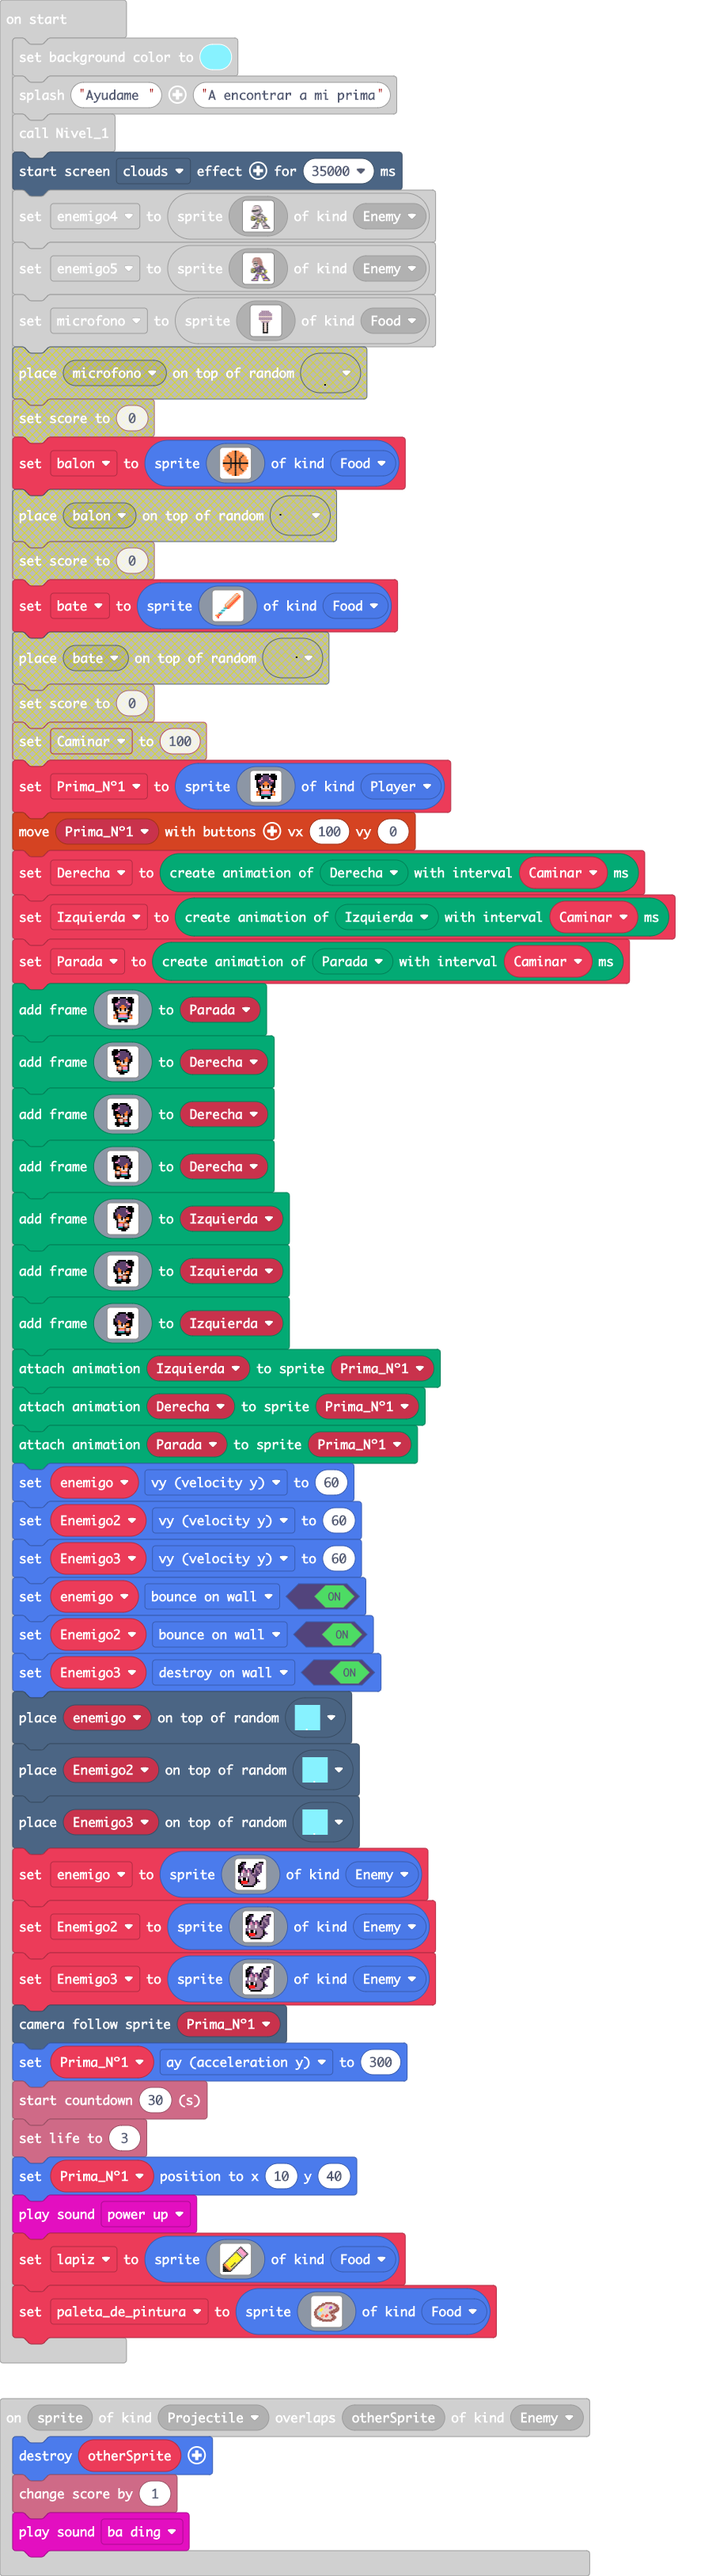
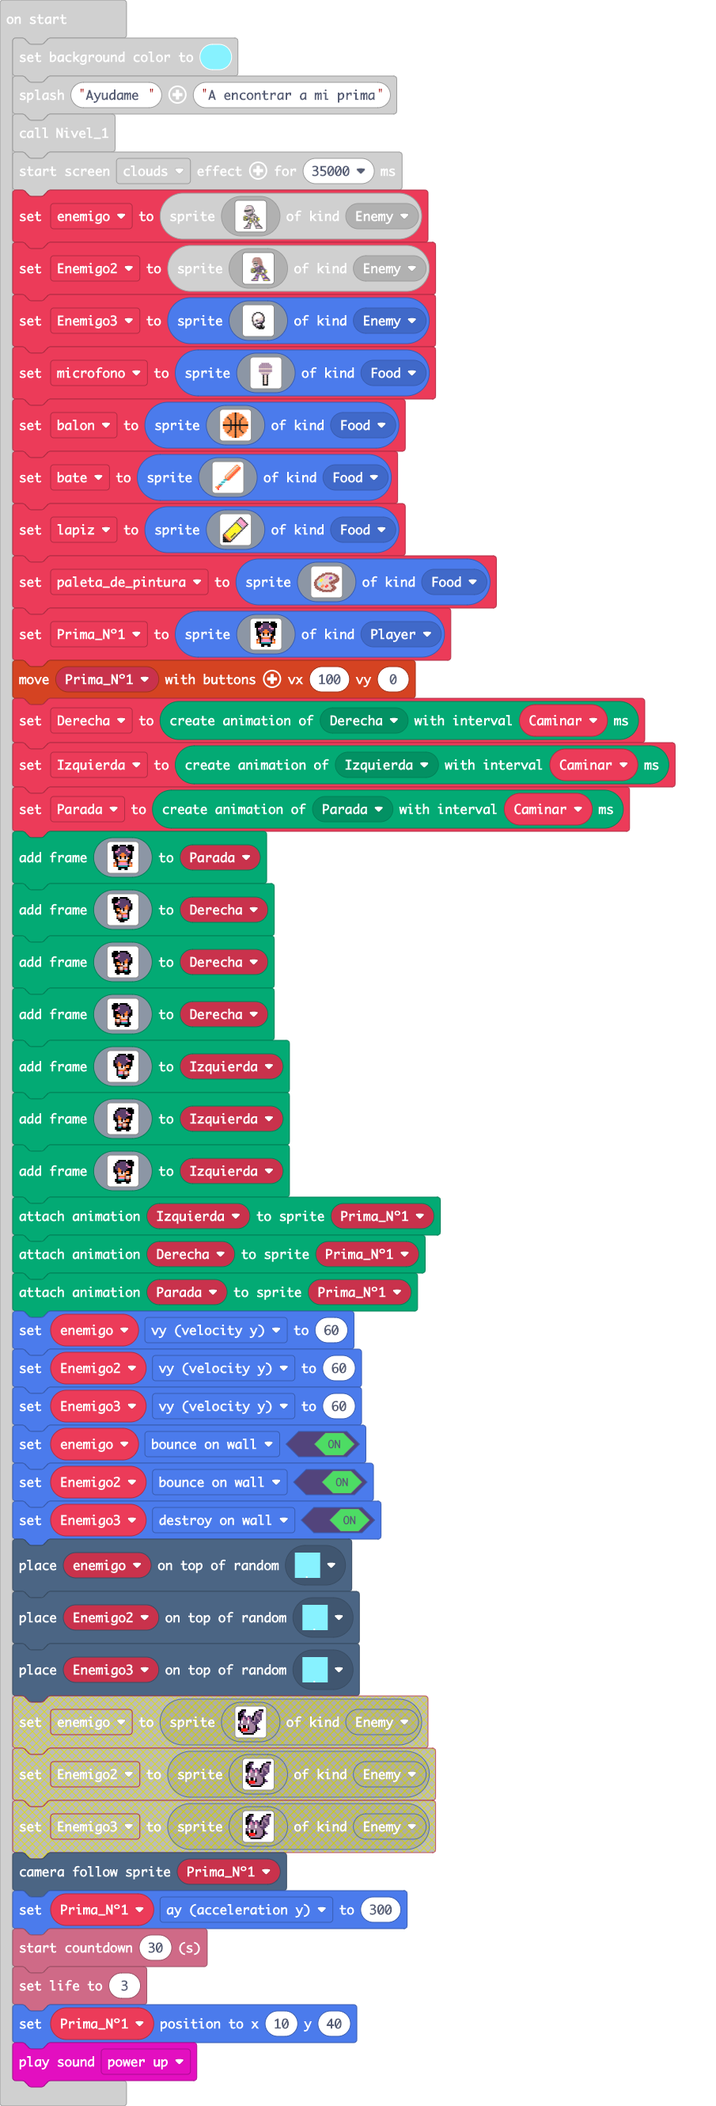
Update main.blocks, main.ts

diff --git a/main.ts b/main.ts
@@ -150,19 +150,19 @@ sprites.onOverlap(SpriteKind.Player, SpriteKind.Enemy, function (sprite, otherSp
 let Premio_1: Sprite = null
 let Projectil: Sprite = null
 let direccion = 0
-let Enemigo3: Sprite = null
-let Enemigo2: Sprite = null
-let enemigo: Sprite = null
 let Caminar = 0
 let Prima_Nº1: Sprite = null
 let bate: Sprite = null
 let balon: Sprite = null
 let microfono: Sprite = null
+let Enemigo3: Sprite = null
+let Enemigo2: Sprite = null
+let enemigo: Sprite = null
 scene.setBackgroundColor(9)
 game.splash("Ayudame ", "A encontrar a mi prima")
 Nivel_1()
 effects.clouds.startScreenEffect()
-let enemigo4 = sprites.create(img`
+enemigo = sprites.create(img`
     . . . . . . . . . . . . . . . . . . . . . . . . . . . . . . . . . . . . . . . . . . . . . . 
     . . . . . . . . . . . . . . . . . . . . . . . . . . . . . . . . . . . . . . . . . . . . . . 
     . . . . . . . . . . . . . . . . . . . . . . . . . . . . . . . . . . . . . . . . . . . . . . 
@@ -211,7 +211,7 @@ let enemigo4 = sprites.create(img`
     . . . . . . . . . . . f b b b b b b b b b f f . . . . . . . . . . f b d d d d d d d b b f . 
     . . . . . . . . . . . f f f f f f f f f f f f . . . . . . . . . . f f f f f f f f f f f f . 
     `, SpriteKind.Enemy)
-let enemigo5 = sprites.create(img`
+Enemigo2 = sprites.create(img`
     . . . . . . . . . . . . . . . . . . . . . . . . . . . . . . . . . . . . . . . . . . . . . . 
     . . . . . . . . . . . . . . . . . . . . . . . . . . . . . . . . . . . . . . . . . . . . . . 
     . . . . . . . . . . . . . . . . . . . . . . . . . . . . . . . . . . . . . . . . . . . . . . 
@@ -259,6 +259,32 @@ let enemigo5 = sprites.create(img`
     . . . . . . . . . . . f f a a 5 5 5 5 5 a a f . . . . . . . . . . f a a 5 5 5 5 5 a a f f . 
     . . . . . . . . . . . f a a a a a a a a a f f . . . . . . . . . . f a 5 5 5 5 5 5 5 a a f . 
     . . . . . . . . . . . f f f f f f f f f f f f . . . . . . . . . . f f f f f f f f f f f f . 
+    `, SpriteKind.Enemy)
+Enemigo3 = sprites.create(img`
+    . . . . . . . . . . . . . . . . . . . . . . . . 
+    . . . . . . . . . . . . . . . . . . . . . . . . 
+    . . . . . . . . . . . . . . . . . . . . . . . . 
+    . . . . . . . . . . . . . . . . . . . . . . . . 
+    . . . . . . . . . . f f f f . . . . . . . . . . 
+    . . . . . . . . f f 1 1 1 1 f f . . . . . . . . 
+    . . . . . . . f b 1 1 1 1 1 1 b f . . . . . . . 
+    . . . . . . . f 1 1 1 1 1 1 1 d f . . . . . . . 
+    . . . . . . f d 1 1 1 1 1 1 1 d d f . . . . . . 
+    . . . . . . f d 1 1 1 1 1 1 d d d f . . . . . . 
+    . . . . . . f d 1 1 1 d d d d d d f . . . . . . 
+    . . . . . . f d 1 d f b d d d d b f . . . . . . 
+    . . . . . . f b d d f c d b b b c f . . . . . . 
+    . . . . . . . f 1 1 1 1 1 b b c f . . . . . . . 
+    . . . . . . . f 1 b 1 f f f f f . . . . . . . . 
+    . . . . . . . f b f c 1 1 1 b f . . . . . . . . 
+    . . . . . . . . f f 1 b 1 b f f . . . . . . . . 
+    . . . . . . . . . f b f b f f f . f . . . . . . 
+    . . . . . . . . . . f f f f f f f f . . . . . . 
+    . . . . . . . . . . . . f f f f f . . . . . . . 
+    . . . . . . . . . . . . . . . . . . . . . . . . 
+    . . . . . . . . . . . . . . . . . . . . . . . . 
+    . . . . . . . . . . . . . . . . . . . . . . . . 
+    . . . . . . . . . . . . . . . . . . . . . . . . 
     `, SpriteKind.Enemy)
 microfono = sprites.create(img`
     1 1 1 1 1 1 1 1 1 1 1 1 1 1 1 1 
@@ -529,60 +555,6 @@ Enemigo3.setFlag(SpriteFlag.DestroyOnWall, true)
 tiles.placeOnRandomTile(enemigo, myTiles.tile7)
 tiles.placeOnRandomTile(Enemigo2, myTiles.tile7)
 tiles.placeOnRandomTile(Enemigo3, myTiles.tile7)
-enemigo = sprites.create(img`
-    . . f f f . . . . . . . . f f f 
-    . f f c c . . . . . . f c b b c 
-    f f c c . . . . . . f c b b c . 
-    f c f c . . . . . . f b c c c . 
-    f f f c c . c c . f c b b c c . 
-    f f c 3 c c 3 c c f b c b b c . 
-    f f b 3 b c 3 b c f b c c b c . 
-    . c 1 b b b 1 b c b b c c c . . 
-    . c 1 b b b 1 b b c c c c . . . 
-    c b b b b b b b b b c c . . . . 
-    c b 1 f f 1 c b b b b f . . . . 
-    f f 1 f f 1 f b b b b f c . . . 
-    f f 2 2 2 2 f b b b b f c c . . 
-    . f 2 2 2 2 b b b b c f . . . . 
-    . . f b b b b b b c f . . . . . 
-    . . . f f f f f f f . . . . . . 
-    `, SpriteKind.Enemy)
-Enemigo2 = sprites.create(img`
-    . . f f f . . . . . . . . f f f 
-    . f f c c . . . . . . f c b b c 
-    f f c c . . . . . . f c b b c . 
-    f c f c . . . . . . f b c c c . 
-    f f f c c . c c . f c b b c c . 
-    f f c 3 c c 3 c c f b c b b c . 
-    f f b 3 b c 3 b c f b c c b c . 
-    . c 1 b b b 1 b c b b c c c . . 
-    . c 1 b b b 1 b b c c c c . . . 
-    c b b b b b b b b b c c . . . . 
-    c b 1 f f 1 c b b b b f . . . . 
-    f f 1 f f 1 f b b b b f c . . . 
-    f f 2 2 2 2 f b b b b f c c . . 
-    . f 2 2 2 2 b b b b c f . . . . 
-    . . f b b b b b b c f . . . . . 
-    . . . f f f f f f f . . . . . . 
-    `, SpriteKind.Enemy)
-Enemigo3 = sprites.create(img`
-    . . f f f . . . . . . . . f f f 
-    . f f c c . . . . . . f c b b c 
-    f f c c . . . . . . f c b b c . 
-    f c f c . . . . . . f b c c c . 
-    f f f c c . c c . f c b b c c . 
-    f f c 3 c c 3 c c f b c b b c . 
-    f f b 3 b c 3 b c f b c c b c . 
-    . c 1 b b b 1 b c b b c c c . . 
-    . c 1 b b b 1 b b c c c c . . . 
-    c b b b b b b b b b c c . . . . 
-    c b 1 f f 1 c b b b b f . . . . 
-    f f 1 f f 1 f b b b b f c . . . 
-    f f 2 2 2 2 f b b b b f c c . . 
-    . f 2 2 2 2 b b b b c f . . . . 
-    . . f b b b b b b c f . . . . . 
-    . . . f f f f f f f . . . . . . 
-    `, SpriteKind.Enemy)
 scene.cameraFollowSprite(Prima_Nº1)
 Prima_Nº1.ay = 300
 info.startCountdown(30)
